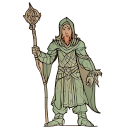
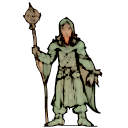
lions and rafts

Changed region(s): [[0.1875, 0.0, 0.8125, 1.0]]

diff --git a/game/savegame/travel/TilesCanvasRenderer.js b/game/savegame/travel/TilesCanvasRenderer.js
@@ -97,7 +97,7 @@ export default class TilesCanvasRenderer extends CanvasRenderer {
 		);
 
 		this.game.assets.loadImage(
-			'img/character/rogue.png',
+			'img/character/rogue-black.png',
 			(img) => {
 				this.follower2 = img;
 				this.renderInternal();
@@ -105,7 +105,7 @@ export default class TilesCanvasRenderer extends CanvasRenderer {
 		);
 
 		this.game.assets.loadImage(
-			'img/character/ship.png',
+			'img/character/raft.png',
 			(img) => {
 				this.ship = img;
 				this.renderInternal();
@@ -297,46 +297,47 @@ export default class TilesCanvasRenderer extends CanvasRenderer {
 						false
 					);
 				}
-			} else {
-				// follower 1
-				if (this.follower1) {
-					this.drawImage(
-						this.follower1,
-						tileStart.add(padding),
-						followerSize,
-						new Vector2(0, 0),
-						new Vector2(this.follower1.width, this.follower1.height),
-						1,
-						false
-					);
-				}
-
-				// follower 2
-				if (this.follower2) {
-					this.drawImage(
-						this.follower2,
-						tileStart.add(new Vector2(this.model.tiles.tileSize.x - padding.x - followerSize.x, padding.y)),
-						followerSize,
-						new Vector2(0, 0),
-						new Vector2(this.follower2.width, this.follower2.height),
-						1,
-						false
-					);
-				}
-
-				// leader
-				if (this.knight) {
-					this.drawImage(
-						this.knight,
-						new Vector2(tileCenter.x - (leaderSize.x / 2), tileStart.y + this.model.tiles.tileSize.y - padding.y - leaderSize.y),
-						leaderSize,
-						new Vector2(0, 0),
-						new Vector2(this.knight.width, this.knight.height),
-						1,
-						false
-					);
-				}
 			}
+
+			// follower 1
+			if (this.follower1) {
+				this.drawImage(
+					this.follower1,
+					tileStart.add(padding),
+					followerSize,
+					new Vector2(0, 0),
+					new Vector2(this.follower1.width, this.follower1.height),
+					1,
+					false
+				);
+			}
+
+			// follower 2
+			if (this.follower2) {
+				this.drawImage(
+					this.follower2,
+					tileStart.add(new Vector2(this.model.tiles.tileSize.x - padding.x - followerSize.x, padding.y)),
+					followerSize,
+					new Vector2(0, 0),
+					new Vector2(this.follower2.width, this.follower2.height),
+					1,
+					false
+				);
+			}
+
+			// leader
+			if (this.knight) {
+				this.drawImage(
+					this.knight,
+					new Vector2(tileCenter.x - (leaderSize.x / 2), tileStart.y + this.model.tiles.tileSize.y - padding.y - leaderSize.y),
+					leaderSize,
+					new Vector2(0, 0),
+					new Vector2(this.knight.width, this.knight.height),
+					1,
+					false
+				);
+			}
+
 		}
 	}
 

diff --git a/game/resources/unitType/UnitTypesResource.js b/game/resources/unitType/UnitTypesResource.js
@@ -5,6 +5,8 @@ import KrakenUnit from "./types/KrakenUnit";
 import OrcUnit from "./types/OrcUnit";
 import ArrayHelper from "wgge/core/helper/ArrayHelper";
 import BlackDragonUnit from "./types/BlackDragonUnit";
+import LionUnit from "./types/LionUnit";
+import SharksUnit from "./types/SharksUnit";
 
 export default class UnitTypesResource extends ModelNodeTable {
 
@@ -15,6 +17,8 @@ export default class UnitTypesResource extends ModelNodeTable {
 		this.add(new BlackDragonUnit());
 		this.add(new KrakenUnit());
 		this.add(new OrcUnit());
+		this.add(new LionUnit());
+		this.add(new SharksUnit());
 
 	}
 

diff --git a/game/resources/biotope/biotopes/MountainsBiotope.js b/game/resources/biotope/biotopes/MountainsBiotope.js
@@ -11,7 +11,8 @@ export class MountainsBiotope extends BiotopeResource {
 		this.heightLevel.set(HEIGHT_LEVEL_MOUNTAINS);
 		this.precipitationLevel.set(PRECIPITATION_LEVEL_NORMAL);
 
-		this.addDecoration('Mountain', 'img/decor/pine-trees-black-2.png');
+		this.addDecoration('Trees', 'img/decor/pine-trees-black-2.png');
+		this.addDecoration('Mountain', 'img/decor/mountain.png');
 	}
 
 }

diff --git a/game/resources/biotope/biotopes/DesertBiotope.js b/game/resources/biotope/biotopes/DesertBiotope.js
@@ -15,7 +15,7 @@ export class DesertBiotope extends BiotopeResource {
 		this.precipitationLevel.set(PRECIPITATION_LEVEL_DRY);
 
 		this.addDecoration('Dead Trees', 'img/decor/dead-trees.png');
-		this.addDecoration('Dead Trees', 'img/decor/dead-trees-2.png');
+		//this.addDecoration('Dead Trees', 'img/decor/dead-trees-2.png');
 	}
 
 }

diff --git a/game/resources/unitType/types/SharksUnit.js b/game/resources/unitType/types/SharksUnit.js
@@ -1,0 +1,13 @@
+import UnitTypeResource from "../UnitTypeResource";
+
+export default class SharksUnit extends UnitTypeResource {
+
+	constructor(id) {
+		super(id);
+
+		this.name.set('Sharks');
+		this.image.set('img/monster/sharks.png');
+
+		this.baseStats.waterBased.baseValue.set(true);
+	}
+}

diff --git a/game/resources/biotope/biotopes/HillsBiotope.js b/game/resources/biotope/biotopes/HillsBiotope.js
@@ -12,7 +12,6 @@ export class HillsBiotope extends BiotopeResource {
 		this.precipitationLevel.set(PRECIPITATION_LEVEL_NORMAL);
 
 		this.addDecoration('Pine Trees', 'img/decor/pine-trees-black.png');
-		this.addDecoration('Pine Trees', 'img/decor/pine-trees-black-2.png');
 	}
 
 }

diff --git a/game/resources/biotope/biotopes/TundraBiotope.js b/game/resources/biotope/biotopes/TundraBiotope.js
@@ -11,6 +11,7 @@ export class TundraBiotope extends BiotopeResource {
 		this.heightLevel.set(HEIGHT_LEVEL_HILLS);
 		this.precipitationLevel.set(PRECIPITATION_LEVEL_NORMAL);
 
+		this.addDecoration('Trees', 'img/decor/pine-trees-black-2.png');
 	}
 
 }

diff --git a/game/resources/biotope/biotopes/SwampBiotope.js b/game/resources/biotope/biotopes/SwampBiotope.js
@@ -11,6 +11,7 @@ export class SwampBiotope extends BiotopeResource {
 		this.heightLevel.set(HEIGHT_LEVEL_BEACH);
 		this.precipitationLevel.set(PRECIPITATION_LEVEL_WET);
 
+		this.addDecoration('Swamp Tree', 'img/decor/swamp-tree.png');
 	}
 
 }

diff --git a/game/resources/unitType/types/LionUnit.js b/game/resources/unitType/types/LionUnit.js
@@ -1,0 +1,12 @@
+import UnitTypeResource from "../UnitTypeResource";
+
+export default class LionUnit extends UnitTypeResource {
+
+	constructor(id) {
+		super(id);
+
+		this.name.set('Lion');
+		this.image.set('img/monster/lion.png');
+
+	}
+}

diff --git a/game/resources/race/races/OrcsRace.js b/game/resources/race/races/OrcsRace.js
@@ -6,7 +6,7 @@ export default class OrcsRace extends RaceResource {
 		super(id);
 
 		this.name.set('Orcs');
-		this.townImage.set('img/poi/village-black.png');
+		this.townImage.set('img/poi/orc-village.png');
 
 		// FACTIONS
 

diff --git a/game/resources/race/races/ElvesRace.js b/game/resources/race/races/ElvesRace.js
@@ -6,7 +6,7 @@ export default class ElvesRace extends RaceResource {
 		super(id);
 
 		this.name.set('Elves');
-		this.townImage.set('img/poi/elf-castle.png');
+		this.townImage.set('img/poi/village.png');
 
 		// FACTIONS
 

diff --git a/game/resources/race/races/HumanRace.js b/game/resources/race/races/HumanRace.js
@@ -6,7 +6,7 @@ export default class HumanRace extends RaceResource {
 		super(id);
 
 		this.name.set('Men');
-		this.townImage.set('img/poi/castle.png');
+		this.townImage.set('img/poi/hut.png');
 
 		// FACTIONS
 
